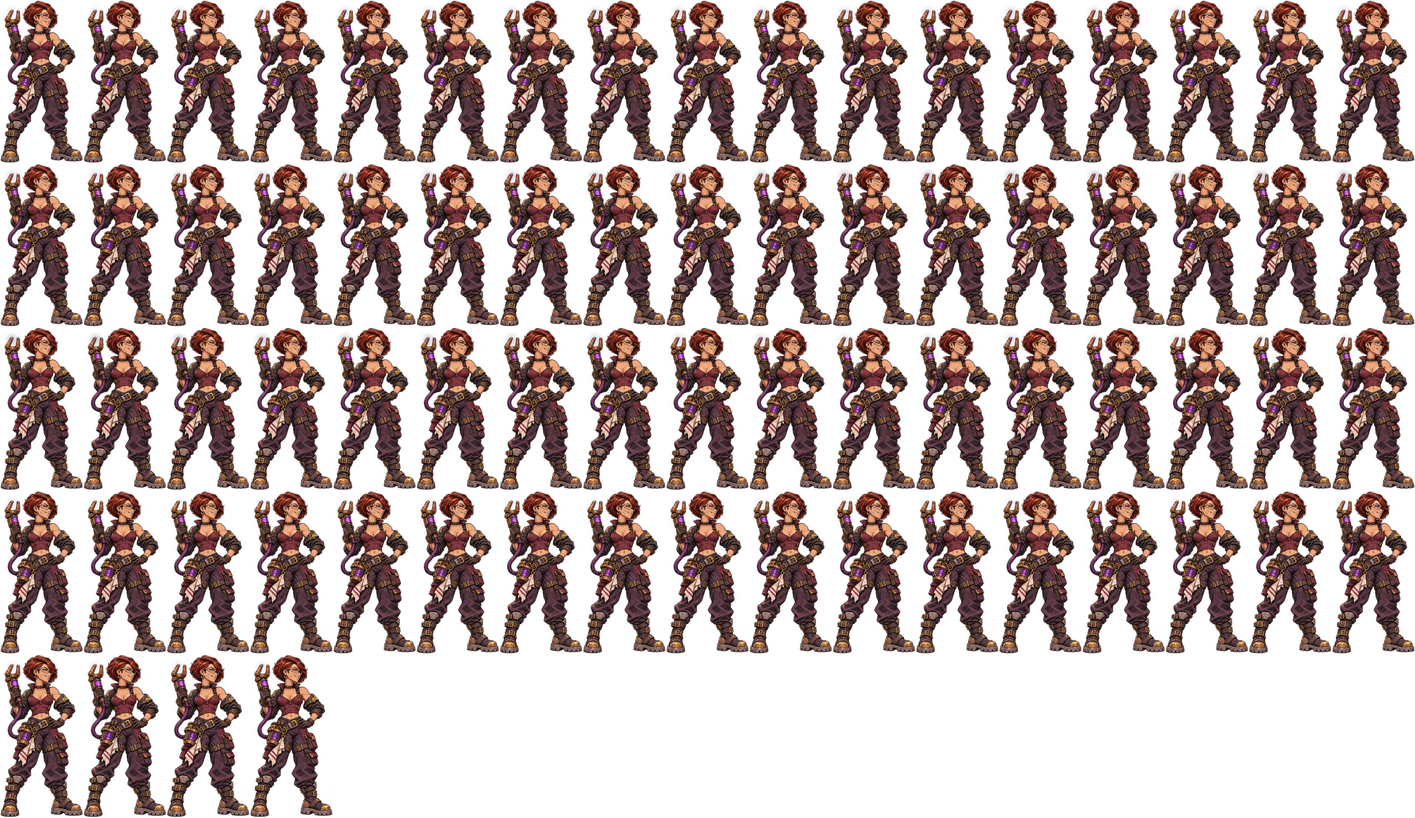
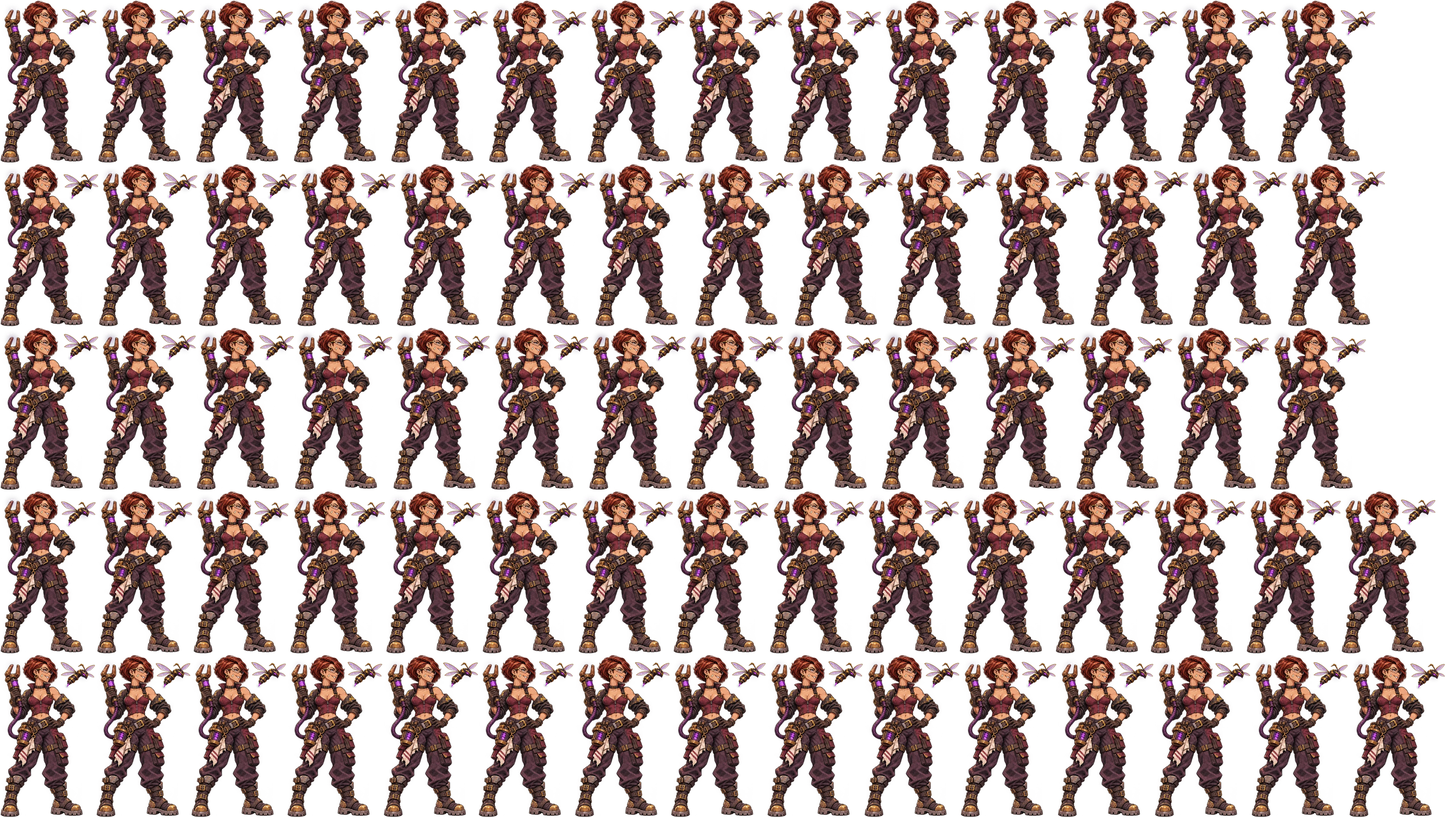
0.266.0: Arc Welder wasp companion and quicker Rogue Tailor recovery

diff --git a/apps/web/src/fight/FightView.tsx b/apps/web/src/fight/FightView.tsx
@@ -130,7 +130,6 @@ import { FlourishCard, type Flourish } from './FlourishCard';
 import { useClearOfBelt } from './clearOfBelt';
 import type { FighterSpec } from './Fighters';
 import {
-  ARC_WELDER_HORNET,
   ARC_WELDER_SKIN,
   DEMON_KNIGHT_SKIN,
   NOVA_RONIN_SKIN,
@@ -314,9 +313,6 @@ function specsFrom(
     // the opponent (and their companions) stand on the right and face left
     const flip = pvp && ds === 'b';
     const units = s.sides[side].units;
-    const engineer = units.find((u) => u.kind === 'hero' && u.def === 'engineer');
-    const arcWelderEquipped =
-      !!engineer && skinOf?.(engineer.def, side, side === me) === ARC_WELDER_SKIN;
     // every figure's real size first: each side is then laid out from those widths, so nothing overlaps
     const sized = units.map((u) => {
       const hero = u.kind === 'hero';
@@ -324,17 +320,11 @@ function specsFrom(
       // (your own hero wears the skin you chose; the other side keeps its own look, DECISIONS #406)
       // (a unit whose figure is still coming is drawn as its stand-in under a form of its own, so the real one replaces it at the
       // redraw when it arrives: FIGURE_READY_EVENT)
-      const baseForm = hero ? u.def : figureId(u.def, u.maxHp);
-      const form =
-        arcWelderEquipped &&
-        u.kind === 'ally' &&
-        (baseForm === 'drone' || baseForm === 'patrol-drone')
-          ? ARC_WELDER_HORNET
-          : baseForm;
+      const form = hero ? u.def : figureId(u.def, u.maxHp);
       const waiting = !hero && needsFigure(form);
       const skin = hero ? skinOf?.(u.def, side, side === me) : undefined;
       const raw = figures.get(u.id, waiting ? `${form}~waiting` : form, () =>
-        hero ? heroFigure(u.def, skin) : unitFigure(waiting ? baseForm : form),
+        hero ? heroFigure(u.def, skin) : unitFigure(form),
       );
       const canvas = flip && u.kind !== 'enemy' ? mirror(raw) : raw;
       // (animated skin sizes come from their sheet manifests, DECISIONS #773)
@@ -453,9 +443,7 @@ function specsFrom(
       const novaRonin = skin === NOVA_RONIN_SKIN;
       const arcWelder = skin === ARC_WELDER_SKIN;
       const rogueTailor = skin === ROGUE_TAILOR_SKIN;
-      const hornet = e.form === ARC_WELDER_HORNET;
       if (arcWelder) attack = { kind: 'shoot', tint: '#c477ff' };
-      if (hornet) attack = { kind: 'stab', tint: '#c477ff' };
       if (novaRonin) attack = { ...attack, tint: '#b46bff' };
       if (demonKnight) attack = { ...attack, tint: '#ff354b' };
       if (rogueTailor) attack = { kind: 'stab', tint: '#eab06d' };
@@ -513,7 +501,7 @@ function specsFrom(
             }
           : // (a creature with an animated model plays it, DECISIONS #760: the sheets face right, so an enemy, or the other side's
             // companion in the Arena, plays mirrored, as its picture faces)
-            !e.hero && (hornet || UNIT_SHEETS.has(e.form))
+            !e.hero && UNIT_SHEETS.has(e.form)
             ? {
                 rig: {
                   id: `${UNIT_SHEET_PREFIX}${e.form}`,

diff --git a/apps/web/src/art/heroSheets.test.ts b/apps/web/src/art/heroSheets.test.ts
@@ -2,7 +2,6 @@ import { afterEach, describe, expect, it, vi } from 'vitest';
 import { RIFTWALKERS } from '@sr/content/v2';
 import {
   ANIMATED_SKINS,
-  ARC_WELDER_HORNET,
   DEMON_KNIGHT_SKIN,
   HERO_SHEETS,
   SHEET_PREFIX,
@@ -105,7 +104,7 @@ describe('every animated creature ships in both sets (DECISIONS #760)', () => {
     const { UNIT_SHEETS } = await import('./unitSheets');
     expect(UNIT_SHEETS.size).toBeGreaterThan(100);
     for (const set of ['units-sheets', 'units-sheets-lite'])
-      for (const unit of [...UNIT_SHEETS, ARC_WELDER_HORNET]) {
+      for (const unit of UNIT_SHEETS) {
         const dir = new URL(`../../public/art/${set}/${unit}/`, import.meta.url);
         const man = JSON.parse(readFileSync(new URL('sprites.json', dir), 'utf8')) as {
           pages: string[];

diff --git a/apps/web/src/app/patchNotes.ts b/apps/web/src/app/patchNotes.ts
@@ -46,6 +46,24 @@ export const KIND_LABEL: Record<NoteKind, string> = {
 
 export const PATCH_NOTES: PatchNote[] = [
   {
+    version: '0.266.0',
+    date: '2026-11-12',
+    title: 'Arc Welder’s wasp',
+    summary: 'Arc Welder’s wasp follows her, and Rogue Tailor recovers faster after her swipe.',
+    notes: [
+      {
+        kind: 'fixed',
+        hero: 'engineer',
+        text: 'The brass wasp hovers alongside Arc Welder as part of her skin. Summoned Drone and Patrol Drone use their standard models.',
+      },
+      {
+        kind: 'changed',
+        hero: 'assassin',
+        text: 'Rogue Tailor returns to ready sooner after the needle swipe.',
+      },
+    ],
+  },
+  {
     version: '0.265.0',
     date: '2026-11-12',
     title: 'Rogue Tailor',

diff --git a/apps/web/src/art/heroRigs.ts b/apps/web/src/art/heroRigs.ts
@@ -29,7 +29,6 @@ export const DEMON_KNIGHT_SKIN = 'knight-demon-knight';
 export const NOVA_RONIN_SKIN = 'spellblade-nova-ronin';
 export const ARC_WELDER_SKIN = 'engineer-arc-welder';
 export const ROGUE_TAILOR_SKIN = 'assassin-rogue-tailor';
-export const ARC_WELDER_HORNET = 'arc-welder-hornet';
 export const ANIMATED_SKINS: ReadonlySet<string> = new Set([
   DEMON_KNIGHT_SKIN,
   NOVA_RONIN_SKIN,

diff --git a/CHANGELOG.md b/CHANGELOG.md
@@ -1,3 +1,8 @@
+## 0.266.0 - 2026-11-12
+
+- Arc Welder’s brass wasp hovers alongside her as part of her skin. Summoned Drone and Patrol Drone use their standard models.
+- Rogue Tailor returns to ready sooner after the needle swipe.
+
 ## 0.265.0 - 2026-11-12
 
 - Added Rogue Tailor, a free animated Rogue skin with a rose braid, tall embroidered boots and a gold glint along her dagger.
